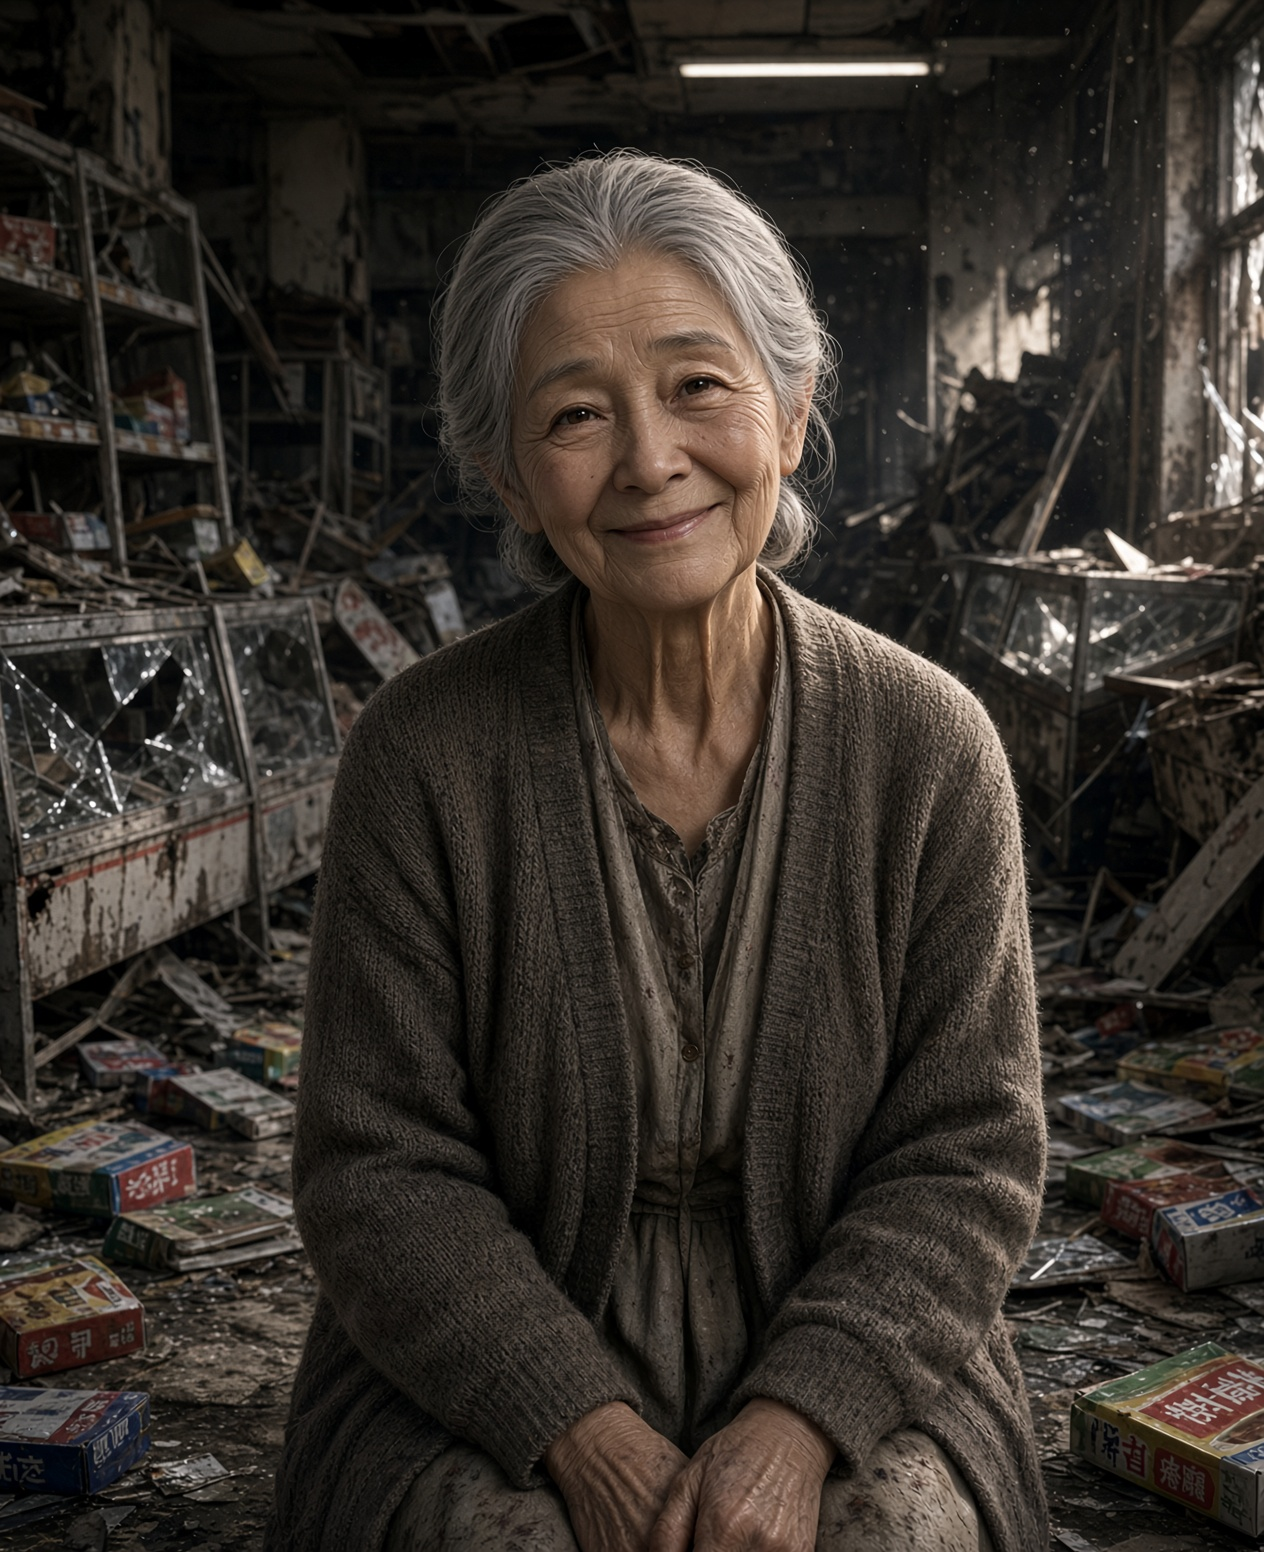
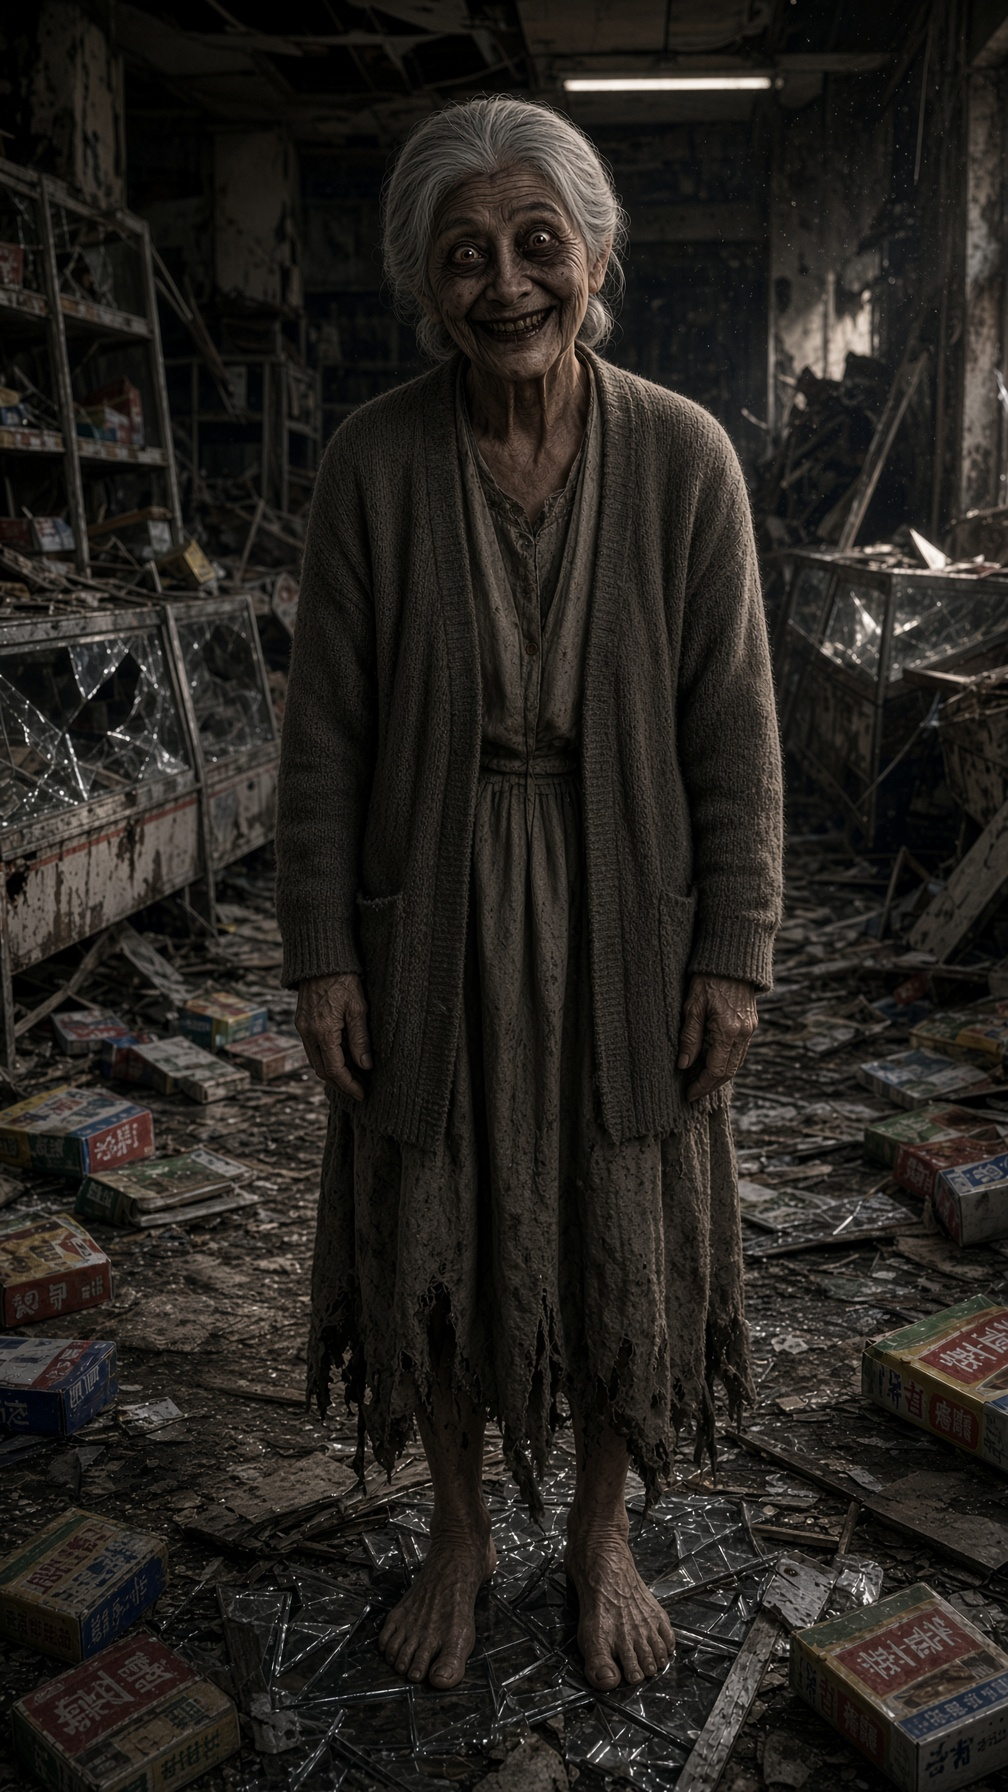
更新h

diff --git a/main.js b/main.js
@@ -50,7 +50,7 @@ appStyle.innerHTML = `
     .app-home-btn:hover { background-color: #aaa; }
     
     /* サブ画面用スタイル */
-    .sub-header { display: flex; align-items: center; justify-content: space-between; border-bottom: 1px solid #550000; padding-bottom: 10px; margin-bottom: 20px; }
+    .sub-header { display: flex; align-items: center; justify-content: space-between; border-bottom: 1px solid #550000; padding-bottom: 10px; margin-bottom: 15px; }
     .back-btn { cursor: pointer; color: #888; font-size: 0.9em; transition: color 0.2s; padding: 5px; }
     .back-btn:hover { color: #fff; }
     .sub-title { font-size: 1.3em; color: #ff3333; text-shadow: 0 0 5px red; margin: 0; text-align: center; flex: 1; font-weight: bold; }
@@ -69,21 +69,21 @@ const ctx = canvas.getContext("2d");
 
 // --- ゲームグローバル状態管理 ---
 const gameState = {
-    hasExorcistInherited: false, // エクソシストからの継承フラグ
-    hasKey2F: false,             // 2F非常階段の鍵フラグ
-    hasModelGun: false,          // モデルガン所持フラグ（2F用）
-    hasMetGrandma: false,        // ★おばあさんに会ったかどうかのフラグ
-    cards: [],                   // 所持カードIDリスト
-    equippedCards: [],           // 装填中のカードリスト
-    level: 1,                    // 主人公のレベル
-    hp: 100,                     // 現在HP
-    maxHp: 100,                  // 最大HP
-    sin: 0,                      // 罪（ペナルティ）ポイント
-    familiarSync: 7              // 使い魔同期率(%)
+    hasExorcistInherited: false, 
+    hasKey2F: false,             
+    hasModelGun: false,          // モデルガン所持フラグ
+    hasMetGrandma: false,        
+    cards: [],                   
+    equippedCards: [],           
+    level: 1,                    
+    hp: 100,                     
+    maxHp: 100,                  
+    sin: 0,                      
+    familiarSync: 7              
 };
 
 // --- 階層データ管理 ---
-let currentFloor = 1; // 1: 1階, 2: 2階
+let currentFloor = 1; 
 let currentMap = map1F;
 let currentHandleEvent = handleEvent1F;
 
@@ -122,7 +122,7 @@ for (let key in imageSources) {
     images[key] = new Image();
     images[key].onload = checkAllLoaded;
     images[key].onerror = () => {
-        console.warn(`【画像読み込み警告】「${imageSources[key]}」が見つかりません（プレースホルダーを使用します）。`);
+        console.warn(`【画像読み込み警告】「${imageSources[key]}」が見つかりません。`);
         checkAllLoaded();
     };
     images[key].src = imageSources[key];
@@ -163,7 +163,7 @@ function draw() {
         const rX = player.x + dx[player.dir] * forwardOffset + dx[rightDir];
         const rY = player.y + dy[player.dir] * forwardOffset + dy[rightDir];
 
-        // --- 左側の描画 ---
+        // 左描画
         if (currentMap[lY] && currentMap[lY][lX] !== 0) {
             const imgKey = "left" + depth;
             if (images[imgKey] && images[imgKey].complete && images[imgKey].naturalWidth > 0) {
@@ -182,7 +182,7 @@ function draw() {
             }
         }
 
-        // --- 右側の描画 ---
+        // 右描画
         if (currentMap[rY] && currentMap[rY][rX] !== 0) {
             const imgKey = "right" + depth;
             if (images[imgKey] && images[imgKey].complete && images[imgKey].naturalWidth > 0) {
@@ -201,13 +201,13 @@ function draw() {
             }
         }
 
-        // --- 正面壁・扉の描画 ---
+        // 正面描画
         if (currentMap[fY] && currentMap[fY][fX] !== 0) {
             const cellType = currentMap[fY][fX];
             const b = frontBounds[depth];
             let targetImg = images.wall;
             if (cellType === 4 && images.stairDoor && images.stairDoor.complete) targetImg = images.stairDoor;
-            else if ((cellType === 2 || cellType === 3 || cellType === 7) && images.door && images.door.complete) targetImg = images.door;
+            else if ((cellType === 2 || cellType === 3 || cellType === 7 || cellType === 8 || cellType === 9) && images.door && images.door.complete) targetImg = images.door;
 
             if (targetImg && targetImg.complete && targetImg.naturalWidth > 0) {
                 ctx.drawImage(targetImg, b.x, b.y, b.w, b.h);
@@ -233,7 +233,7 @@ function drawActionHint() {
     const frontX = player.x + dx[player.dir];
     const frontY = player.y + dy[player.dir];
     const target = currentMap[frontY] ? currentMap[frontY][frontX] : 1;
-    if ([2, 3, 4, 5, 6, 7].includes(target)) {
+    if ([2, 3, 4, 5, 6, 7, 8, 9].includes(target)) {
         ctx.fillStyle = "rgba(15, 0, 0, 0.75)"; ctx.fillRect(canvas.width / 2 - 90, canvas.height - 50, 180, 32);
         ctx.strokeStyle = "#550000"; ctx.lineWidth = 1; ctx.strokeRect(canvas.width / 2 - 90, canvas.height - 50, 180, 32);
         ctx.fillStyle = "#ffdd66"; ctx.font = `bold 16px ${HORROR_FONT}`; ctx.textAlign = "center"; ctx.fillText("[ SPACE ] 調べる", canvas.width / 2, canvas.height - 28);
@@ -271,7 +271,7 @@ function drawMiniMap() {
         for (let x = 0; x < currentMap[y].length; x++) {
             const cell = currentMap[y][x];
             if (cell !== 0) {
-                ctx.fillStyle = cell === 1 ? "#555" : "#8a2be2";
+                ctx.fillStyle = cell === 1 ? "#555" : (cell === 8 || cell === 9 ? "#cc0000" : "#8a2be2");
                 ctx.fillRect(margin + 3 + x * size, margin + 3 + y * size, size - 1, size - 1);
             }
         }
@@ -308,8 +308,7 @@ function toggleMenu() {
                     <div>SIN: <span>${gameState.sin}</span></div>
                     <div>SYNC: <span>${gameState.familiarSync}%</span></div>
                 </div>
-                <div id="app-content" class="app-content">
-                </div>
+                <div id="app-content" class="app-content"></div>
                 <div class="app-footer">
                     <div class="app-home-btn" onclick="renderAppHome()" title="ホームに戻る"></div>
                 </div>
@@ -321,7 +320,6 @@ function toggleMenu() {
     }
 }
 
-// アプリホーム画面の描画
 window.renderAppHome = function() {
     const content = document.getElementById("app-content");
     if (!content) return;
@@ -360,11 +358,24 @@ window.renderAppHome = function() {
     `;
 };
 
-// ラミナ装填画面の描画
 window.renderLoadout = function() {
     const content = document.getElementById("app-content");
     if (!content) return;
     
+    if (!gameState.hasModelGun) {
+        content.innerHTML = `
+            <div class="sub-header">
+                <div class="back-btn" onclick="renderAppHome()">◀ 戻る</div>
+                <div class="sub-title">ラミナ装填</div>
+                <div style="width: 50px;"></div>
+            </div>
+            <div style="text-align: center; color: #888; margin-top: 50px;">
+                まだモデルガンを所持していません。<br>装填できる武器を探してください。
+            </div>
+        `;
+        return;
+    }
+
     const slotCount = Math.floor((gameState.level - 1) / 5) + 1;
     let slotsHTML = "";
     
@@ -394,6 +405,12 @@ window.renderLoadout = function() {
             <div class="sub-title">ラミナ装填</div>
             <div style="width: 50px;"></div>
         </div>
+        
+        <!-- ★モデルガンの画像を配置 -->
+        <div style="text-align: center; margin-bottom: 15px;">
+            <img src="assets/images/modelgun.jpg" style="max-width: 90%; border: 2px solid #330000; border-radius: 8px; opacity: 0.9;" onerror="this.style.display='none'">
+        </div>
+
         <div style="margin-bottom: 20px;">
             ${slotsHTML}
         </div>
@@ -436,25 +453,40 @@ function interact() {
         } else if (action.type === "exorcistSequence") {
             startExorcistSequence();
         } else if (action.type === "grandmaEvent") {
-            // ★追加：おばあさん初回遭遇イベント
             startGrandmaEvent();
         } else if (action.type === "shop") {
-            // ★追加：2回目以降のショップ直接遷移
             openShopUI();
+        } else if (action.type === "studentEvent") {
+            // ★追加：生徒救出イベント
+            startStudentEvent();
         }
     }
 }
 
-// --- ★ おばあさん遭遇イベント ---
-function startGrandmaEvent() {
-    // コンビニの入店動画を再生してから会話へ
-    playVideo("assets/videos/CVS.mp4", () => {
-        const text = "【謎のおばあさん】\n「いらっしゃい……こんな場所へよく来たねえ。」\n\n「ワタシはなぜか、この店の中にだけは居られるでの……。もし外で何か連絡したいことができたら、1階のポストに手紙を放り込んでおくれ。受け取ってやるからね……」\n\n「さあ、買い物があるなら見ていきな……」";
+// --- ★ 生徒救出 ＆ モデルガン獲得イベント ---
+function startStudentEvent() {
+    const text1 = "【生徒】\n「先生……っ！ よかった、来てくれたんだ……！」\n\n「お父さんが、上の階の様子を見てくるって言ったまま戻ってこないんだ……。外からは変な声が聞こえるし、怖くて……」\n\n「先生、お願い……これを使ってお父さんを助けて……！」";
+    
+    showConversationDialog("assets/images/human1.png", text1, () => {
+        const text2 = "【主人公】\n（これは……モデルガン？ なぜこんなものを……いや、今はこれでも心強い。）\n\n「わかった、お父さんは俺が探す。お前は1階のコンビニへ逃げろ。あそこなら安全なはずだ。後で必ず合流しよう」";
         
-        // 立ち絵付きダイアログを表示
+        showMessageDialog(text2, () => {
+            // モデルガン獲得モーダルを表示
+            showItemAcquiredModal("assets/images/modelgun.jpg", "物理モデルガン", "生徒から託された精巧なモデルガン。\n『悪魔辞典アプリ』と連動し、退魔の札『ラミナ』を装填できる！\n（生徒は1階のコンビニへ向かった）", () => {
+                gameState.hasModelGun = true; // モデルガンフラグON
+            });
+        });
+    });
+}
+
+// --- ★ おばあさん遭遇イベント（セリフ修正版） ---
+function startGrandmaEvent() {
+    playVideo("assets/videos/CVS.mp4", () => {
+        const text = "【謎のおばあさん】\n「おや……こんな場所に迷い込むとは、運の悪い子だねえ。」\n\n「ワタシはね、なぜかこの店の中にだけは居られるんだよ。不思議なもんだねえ……。もし外で何か連絡したいことができたら、1階のポストに手紙を放り込んでおくれ。ワタシが受け取ってやるからね……」\n\n（おばあさんはそれきり目を閉じ、暗がりと同化した。不気味な無人レジだけが青白く光っている……）";
+        
         showConversationDialog("assets/images/grandma.jpg", text, () => {
-            gameState.hasMetGrandma = true; // 出会ったフラグを立てる
-            openShopUI(); // そのままショップ画面へ
+            gameState.hasMetGrandma = true; 
+            openShopUI(); 
         });
     });
 }
@@ -472,7 +504,6 @@ function showConversationDialog(imageSrc, text, onClosed) {
     overlay.style.alignItems = "flex-end";
     overlay.style.zIndex = "2000";
     
-    // キャラクターの立ち絵画像
     const imgDiv = document.createElement("img");
     imgDiv.src = imageSrc;
     imgDiv.style.maxHeight = "320px";
@@ -481,10 +512,8 @@ function showConversationDialog(imageSrc, text, onClosed) {
     imgDiv.style.borderRadius = "8px";
     imgDiv.style.backgroundColor = "#000";
     imgDiv.style.boxShadow = "0 0 15px rgba(0,0,0,0.8)";
-    // 画像がない場合は非表示にする
     imgDiv.onerror = () => { imgDiv.style.display = 'none'; };
 
-    // テキスト領域
     const msgDiv = document.createElement("div");
     msgDiv.style.flex = "1";
     msgDiv.style.padding = "20px 25px";
@@ -520,44 +549,19 @@ function showConversationDialog(imageSrc, text, onClosed) {
             if (onClosed) onClosed();
         }
     };
-
-    setTimeout(() => {
-        overlay.onclick = closeHandler;
-        window.addEventListener("keydown", closeHandler);
-    }, 150);
+    setTimeout(() => { overlay.onclick = closeHandler; window.addEventListener("keydown", closeHandler); }, 150);
 }
 
-// （以下、既存の関数群）
-function startExorcistSequence() {
-    const introMsg = "【血の池】\nマンションの中庭に血の池が湧いて、池の底から無数の人ならざる者がこの世に出ようともがいているのが見える……";
-    showMessageDialog(introMsg, () => {
-        playVideo("assets/videos/BloodPond.mp4", () => {
-            playVideo("assets/videos/exorcist.mp4", () => {
-                const msg = "【瀕死のエクソシスト】\n「……気づいて……くださったのですね……。ワタシはもう……長くありません……」\n\n「ワタシのスマホ……『悪魔辞典アプリ』と、退魔の札『LAMINA EXORCISMI（ラミナ）』……そして使い魔と2階非常階段の鍵を……あなたに託します……」\n\n「9枚のラミナで悪魔を見極め……使い魔はLv.15であなたの助けに……」";
-                showMessageDialog(msg, () => {
-                    showCardAcquiredModal("1Card.png", "退魔の札『ラミナ』", "『悪魔辞典アプリ』『使い魔（Lv.15から）』『2F非常階段の鍵』を受け継いだ！", () => {
-                        const deathMsg = "【衝撃の光景】\n話し終えた直後、血の池がどす黒く泡立ち始めた！\n\n無数の黒い腕が池から這い出し、エクソシストの体にまとわりつく……！\n\n絶叫とともに、エクソシストは血の池の底へと引きずり込まれ、完全に姿を消した。";
-                        showMessageDialog(deathMsg, () => {
-                            gameState.hasExorcistInherited = true;
-                            gameState.hasKey2F = true;
-                            gameState.cards.push("1Card.png"); 
-                        });
-                    });
-                });
-            });
-        });
-    });
-}
-
-function showCardAcquiredModal(imageName, cardTitle, detailText, onClosed) {
+// --- ★ 汎用アイテム獲得モーダル（引数でパス指定可能） ---
+function showItemAcquiredModal(imagePath, itemTitle, detailText, onClosed) {
     isEventPlaying = true;
     const modal = document.createElement("div");
     modal.style.position = "absolute"; modal.style.top = "0"; modal.style.left = "0"; modal.style.width = "100%"; modal.style.height = "100%";
     modal.style.backgroundColor = "rgba(0, 0, 0, 0.88)"; modal.style.zIndex = "2500"; modal.style.display = "flex"; modal.style.flexDirection = "column"; modal.style.alignItems = "center"; modal.style.justifyContent = "center"; modal.style.fontFamily = HORROR_FONT;
     modal.innerHTML = `
-        <div style="color: #ff3333; font-size: 1.8em; margin-bottom: 15px; text-shadow: 0 0 10px red; letter-spacing: 3px;">― 遺志の継承 ―</div>
-        <img src="assets/images/cards/${imageName}" style="max-height: 240px; border: 3px solid #770000; box-shadow: 0 0 25px rgba(255,0,0,0.5); margin-bottom: 15px; border-radius: 6px;">
-        <div style="color: #ffdd66; font-size: 1.5em; font-weight: bold; margin-bottom: 8px;">${cardTitle}</div>
+        <div style="color: #ff3333; font-size: 1.8em; margin-bottom: 15px; text-shadow: 0 0 10px red; letter-spacing: 3px;">― アイテム獲得 ―</div>
+        <img src="${imagePath}" style="max-height: 240px; border: 3px solid #770000; box-shadow: 0 0 25px rgba(255,0,0,0.5); margin-bottom: 15px; border-radius: 6px;" onerror="this.style.display='none'">
+        <div style="color: #ffdd66; font-size: 1.5em; font-weight: bold; margin-bottom: 8px;">${itemTitle}</div>
         <div style="color: #cccccc; font-size: 1.1em; margin-bottom: 25px; text-align: center; white-space: pre-wrap;">${detailText}</div>
         <div style="color: #888; font-size: 0.9em;">[ SPACE ] キー または クリックで閉じる</div>
     `;
@@ -569,6 +573,29 @@ function showCardAcquiredModal(imageName, cardTitle, detailText, onClosed) {
         }
     };
     setTimeout(() => { modal.onclick = closeHandler; window.addEventListener("keydown", closeHandler); }, 150);
+}
+
+// 既存のカード継承モーダル（旧）は一旦残しますが、アイテム獲得用に分けた形です。
+function startExorcistSequence() {
+    const introMsg = "【血の池】\nマンションの中庭に血の池が湧いて、池の底から無数の人ならざる者がこの世に出ようともがいているのが見える……";
+    showMessageDialog(introMsg, () => {
+        playVideo("assets/videos/BloodPond.mp4", () => {
+            playVideo("assets/videos/exorcist.mp4", () => {
+                const msg = "【瀕死のエクソシスト】\n「……気づいて……くださったのですね……。ワタシはもう……長くありません……」\n\n「ワタシのスマホ……『悪魔辞典アプリ』と、退魔の札『LAMINA EXORCISMI（ラミナ）』……そして使い魔と2階非常階段の鍵を……あなたに託します……」\n\n「9枚のラミナで悪魔を見極め……使い魔はLv.15であなたの助けに……」";
+                showMessageDialog(msg, () => {
+                    // ★継承イベントも汎用関数に統合しました
+                    showItemAcquiredModal("assets/images/cards/1Card.png", "退魔の札『ラミナ』", "『悪魔辞典アプリ』『使い魔（Lv.15から）』『2F非常階段の鍵』を受け継いだ！", () => {
+                        const deathMsg = "【衝撃の光景】\n話し終えた直後、血の池がどす黒く泡立ち始めた！\n\n無数の黒い腕が池から這い出し、エクソシストの体にまとわりつく……！\n\n絶叫とともに、エクソシストは血の池の底へと引きずり込まれ、完全に姿を消した。";
+                        showMessageDialog(deathMsg, () => {
+                            gameState.hasExorcistInherited = true;
+                            gameState.hasKey2F = true;
+                            gameState.cards.push("1Card.png"); 
+                        });
+                    });
+                });
+            });
+        });
+    });
 }
 
 function showMessageDialog(text, onClosed) {
